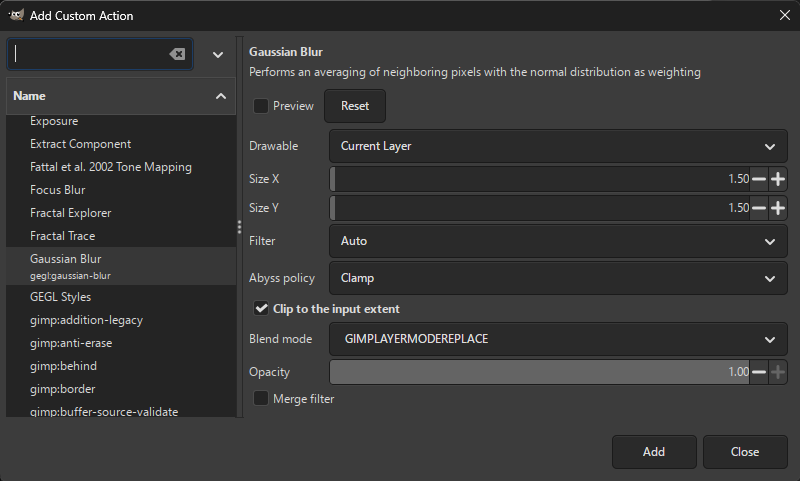
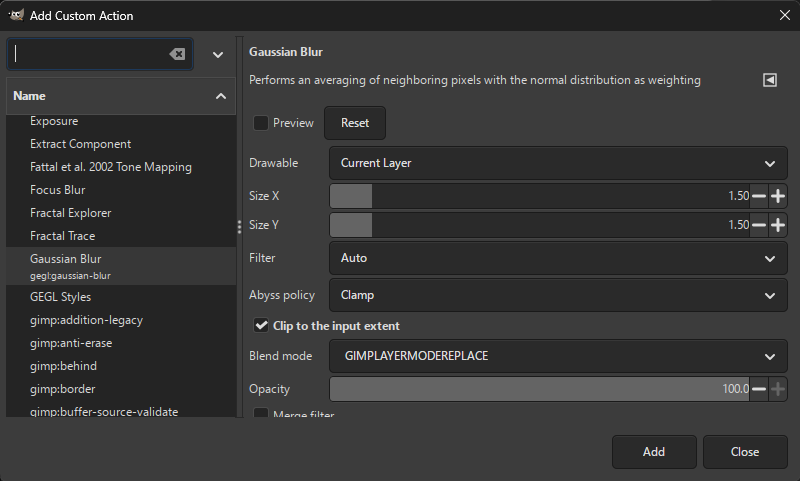
Release 1.2.10

diff --git a/_posts/2026-07-26-1.2.10-released.md b/_posts/2026-07-26-1.2.10-released.md
@@ -1,0 +1,32 @@
+---
+layout: posts
+title: "Batcher 1.2.10 Released"
+author: "Kamil Burda"
+category: news
+---
+
+<!-- end of summary -->
+
+This release allows loading and saving GIMP presets/configs for layer effects/plug-ins, introduces more built-in color-related actions for convenience and improves usability of numeric arguments.
+
+New features:
+* You can now load presets for plug-ins and layer effects (custom actions) saved in GIMP. Conversely, you can save presets within Batcher and reuse them in GIMP.
+* Added two new built-in actions for color correction: `Color Balance` and `Hue-Saturation` (#111). These are equivalent to their corresponding GIMP tools and allow loading and saving presets. These actions are only available for GIMP 3.2 or later. Please note that using a non-default blend mode and opacity values below 100 may not produce the same results as the corresponding tools in GIMP.
+* Added the following new built-in actions for automatic color correction: `Equalize`, `Stretch Contrast`, `Stretch Contrast HSV` and `Color Enhance`. These are equivalent to their corresponding GIMP tools (#141).
+* Added a new unit labeled `%*` representing a percentage taken from the specified object (image or layer) and property (width, height, ...). This was originally the behavior of the `%` unit. To reduce visual clutter, the object and property are now displayed in a popover when choosing `%*`. The `%` unit is now only displayed for particular arguments in built-in actions where applicable. For example, the percentage for the `Width` argument in the `Scale` action is taken from the width of the object to be scaled (selected by the `Apply to (image or layer):` argument).
+* Scale: Added options to scale only images/layers smaller/larger than the specified width and height, or custom width and height (#163).
+* Added a setting to control whether the dialog for quick variants of Export Images and Export Layers is displayed. Previously, once you unchecked `Show this dialog`, there was no way to restore the dialog unless you reset settings. This setting can be found under `Settings → Preferences...` (see below).
+* Added a setting to adjust the number of decimal places for numeric arguments. This allows you to increase numeric precision if needed. This setting can be found under `Settings → Preferences...` (see below).
+
+Changes to actions and conditions:
+* Renamed `Color` menu to `Colors` for consistency with GIMP.
+* Moved `White Balance` under `Colors → Auto`.
+* For consistency with GIMP, opacity arguments are now displayed in the range 0.0-100.0 and saved in the range 0.0-1.0.
+
+Changes to the user interface:
+* Moved `Close when Done`, `Continue on Error` and `Keep Input Images` under `Settings → Preferences...`. Changes to any of these settings are saved immediately.
+
+Bug fixes:
+* Fixed action/condition edit dialogs not being closed when removing them by pressing Delete or when resetting settings.
+
+[Download at GitHub](https://github.com/kamilburda/batcher/releases/tag/1.2.10)

diff --git a/_pages/Usage.md b/_pages/Usage.md
@@ -221,10 +221,6 @@ For example, for the JPEG format, which does not support transparency and may re
 
 ## Managing Settings
 
-You can turn auto-closing the main dialog on/off by checking/unchecking `Settings → Close when Done`.
-
-You can check `Settings → Continue on Error` to continue processing if you determine that error(s) occurring during processing are harmless.
-
 Once batch processing is done successfully, your settings (output folder, file extension, dialog size, actions, conditions, etc.) are automatically saved.
 You can save settings manually anytime by selecting `Settings → Save Settings` or pressing Ctrl + S anywhere in the dialog.
 To reset settings to their default values, select `Settings → Reset Settings`.
@@ -233,4 +229,34 @@ You may also save settings to a custom file by selecting `Settings → Save Sett
 This allows swapping between different plug-in configurations or sharing them.
 To load settings from a file, select `Settings → Load Settings from File...` and select the file.
 
-For Batch Convert, you can optionally turn off saving input images by unchecking `Settings → Keep Input Images`. When this setting is checked, `Reset Settings` will not remove the input images. When loading settings from a file and this setting is checked, the input images will be preserved and any input images stored in the file will be ignored. If you want to load the input images from the file, uncheck this setting.
+### Preferences
+
+Changes to settings under `Settings → Preferences...` are saved immediately.
+
+#### Close when done
+
+If checked, the main dialog is closed automatically after processing ended successfully.
+
+#### Continue on error
+
+If checked, processing is continued regardless of whether errors were encountered. This can be useful if you consider the errors harmless.
+
+#### Keep input images
+
+*Only available for Batch Convert*
+
+If checked:
+* The list of input images is saved when saving settings.
+* `Reset Settings` will not clear the list of input images.
+* When loading settings from a file, the input images will be preserved and any input images stored in the file will be ignored.
+
+If you want to override the list of input images from a settings file, uncheck this setting.
+
+#### Display dialog for quick export
+
+If checked, dialogs for quick variants of Export Images and Export Layers will be displayed.
+
+#### Use a minimum number of decimal places
+
+If checked, all decimal numeric arguments in actions and conditions will have a fixed minimum number of decimal places, which you can adjust via `Minimum decimal places`.
+This allows you to increase numeric precision if the default is too low.

diff --git a/_pages/Customization/Actions.md b/_pages/Customization/Actions.md
@@ -104,8 +104,8 @@ Options:
 * *Height*: The new height, specified using an absolute unit (pixels, inches, ...) or a percentage (of width of the current image, layer, ...).
 * *Interpolation*: Type of interpolation to use.
 * *Use local origin*: If checked and the object to scale is a layer, it will be scaled around its center. If not checked, the layer will be placed in the upper left corner of the image.
-* *Set image resolution in DPI*: Whether to set a new resolution for the current image.
-* *X* and *Y*: The new image resolution in DPI. Only applicable if *Set image resolution in DPI* is checked.
+* *Set image resolution in DPI*: Whether to set a new resolution for the current image. If checked, you can set the *X*- and *Y*-components of the new resolution in DPI.
+* *When to scale*: Allows scaling  only images/layers smaller/larger than the specified width and height, or custom width and height (independent of *Width* and *Height*).
 
 #### Resize Canvas
 
@@ -245,7 +245,7 @@ By default, the background color specified in GIMP is used to fill the alpha cha
 You can override this by setting a custom background color applied only within this action.
 
 
-### Color
+### Colors
 
 #### Brightness-Contrast
 
@@ -254,6 +254,18 @@ Adjusts brightness and contrast.
 For GIMP 3.2 and later, additional options are provided:
 * Filter responsible for adjusting brightness and contrast: `GEGL` (uses the `gegl:brightness-contrast` filter) and `GIMP` (uses the `gimp:brightness-contrast` filter).
 * Option to apply this action non-destructively, opacity and blend mode.
+
+#### Color Balance
+
+*Only available for GIMP 3.2 or later*
+
+Equivalent to `Colors → Color Balance` in GIMP.
+
+#### Hue-Saturation
+
+*Only available for GIMP 3.2 or later*
+
+Equivalent to `Colors → Hue-Saturation` in GIMP.
 
 #### Levels
 
@@ -271,9 +283,25 @@ For GIMP 3.2 and later, you may apply curves non-destructively and adjust opacit
 
 You can save a GIMP preset file by choosing `Export Current Settings to File` in the Curves tool.
 
+#### Equalize
+
+Equivalent to `Colors → Auto → Equalize` in GIMP.
+
 #### White Balance
 
 Equivalent to `Colors → Auto → White Balance` in GIMP.
+
+#### Stretch Contrast
+
+Equivalent to `Colors → Auto → Stretch Contrast` in GIMP.
+
+#### Stretch Contrast HSV
+
+Equivalent to `Colors → Auto → Stretch Contrast HSV` in GIMP.
+
+#### Color Enhance
+
+Equivalent to `Colors → Auto → Color Enhance` in GIMP.
 
 ### G'MIC Filter
 

diff --git a/_pages/Customization/Editing Actions and Conditions.md b/_pages/Customization/Editing Actions and Conditions.md
@@ -25,10 +25,22 @@ For layer/drawable/item arguments, you may select one of the following:
 
 For several built-in actions (such as `Scale` or `Rotate`), numeric arguments representing dimensions, coordinates, etc. can be specified in a variety of units, such as pixels, percentages (e.g. of width of the current image), inches and others. Percentages are converted to pixels. Inches and other units are converted to pixels based on the current image's resolution (in case of Edit Layers and Export Layers, the image of the processed layer).
 
+The `%` unit is only visible for some arguments for particular built-in actions and takes the most appropriate property (width, height) of an image/layer. For example, for the `Width` argument in the `Scale` action, the percentage is taken from the width of the image/layer to be scaled (selected by the `Apply to (image or layer):` argument). The `%*` unit allows you to explicitly select an image/layer and its property and is available everywhere.
+
+
+## Loading and Saving Presets
+
+For custom actions that are either plug-ins or filters (layer effects), you can load presets saved in GIMP.
+Conversely, you can save presets within Batcher and reuse them in GIMP.
+Some built-in actions may also allow loading and saving presets.
+
+Not all argument types are supported at the moment, particularly fonts, brushes, palettes, gradients or patterns.
+
 
 ## More Options
 
 Expanding `More options` allows you to adjust the options below.
+Some built-in actions contain less frequently used arguments under `More options`, such as tiling for `Insert Overlay (Watermark)`.
 
 ### Enable for previews
 

diff --git a/dev/index.md b/dev/index.md
@@ -6,9 +6,9 @@ custom_subtitle: "Batch image processing plug-in for GIMP"
 header:
   overlay_image: /assets/images/splash.jpg
   actions:
-    - label: "Download 1.2.9 (May 24, 2026)"
+    - label: "Download 1.2.10 (July 26, 2026)"
       image: <svg class="page__header-icon" xmlns="http://www.w3.org/2000/svg" viewBox="0 0 512 512"><!--!Font Awesome Free 6.7.2 by @fontawesome - https://fontawesome.com License - https://fontawesome.com/license/free Copyright 2025 Fonticons, Inc.--><path d="M288 32c0-17.7-14.3-32-32-32s-32 14.3-32 32l0 242.7-73.4-73.4c-12.5-12.5-32.8-12.5-45.3 0s-12.5 32.8 0 45.3l128 128c12.5 12.5 32.8 12.5 45.3 0l128-128c12.5-12.5 12.5-32.8 0-45.3s-32.8-12.5-45.3 0L288 274.7 288 32zM64 352c-35.3 0-64 28.7-64 64l0 32c0 35.3 28.7 64 64 64l384 0c35.3 0 64-28.7 64-64l0-32c0-35.3-28.7-64-64-64l-101.5 0-45.3 45.3c-25 25-65.5 25-90.5 0L165.5 352 64 352zm368 56a24 24 0 1 1 0 48 24 24 0 1 1 0-48z"/></svg>
-      url: "https://github.com/kamilburda/batcher/releases/download/1.2.9/batcher-1.2.9.zip"
+      url: "https://github.com/kamilburda/batcher/releases/download/1.2.10/batcher-1.2.10.zip"
       remote_only: true
     - label: "Get started"
       url: "/docs/installation/"

diff --git a/index.md b/index.md
@@ -6,9 +6,9 @@ custom_subtitle: "Batch image processing plug-in for GIMP"
 header:
   overlay_image: /assets/images/splash.jpg
   actions:
-    - label: "Download 1.2.9 (May 24, 2026)"
+    - label: "Download 1.2.10 (July 26, 2026)"
       image: <svg class="page__header-icon" xmlns="http://www.w3.org/2000/svg" viewBox="0 0 512 512"><!--!Font Awesome Free 6.7.2 by @fontawesome - https://fontawesome.com License - https://fontawesome.com/license/free Copyright 2025 Fonticons, Inc.--><path d="M288 32c0-17.7-14.3-32-32-32s-32 14.3-32 32l0 242.7-73.4-73.4c-12.5-12.5-32.8-12.5-45.3 0s-12.5 32.8 0 45.3l128 128c12.5 12.5 32.8 12.5 45.3 0l128-128c12.5-12.5 12.5-32.8 0-45.3s-32.8-12.5-45.3 0L288 274.7 288 32zM64 352c-35.3 0-64 28.7-64 64l0 32c0 35.3 28.7 64 64 64l384 0c35.3 0 64-28.7 64-64l0-32c0-35.3-28.7-64-64-64l-101.5 0-45.3 45.3c-25 25-65.5 25-90.5 0L165.5 352 64 352zm368 56a24 24 0 1 1 0 48 24 24 0 1 1 0-48z"/></svg>
-      url: "https://github.com/kamilburda/batcher/releases/download/1.2.9/batcher-1.2.9.zip"
+      url: "https://github.com/kamilburda/batcher/releases/download/1.2.10/batcher-1.2.10.zip"
       remote_only: true
     - label: "Get started"
       url: "/docs/installation/"

diff --git a/_pages/Known Issues.md b/_pages/Known Issues.md
@@ -12,3 +12,8 @@ For Batch Convert, import options for unrecognized file formats cannot be adjust
 
 Images created by custom actions (e.g. via `plug-in-decompose`) are currently not usable in Batcher.
 [This will be resolved in a future version](https://github.com/kamilburda/batcher/issues/56).
+
+When saving presets for a custom action, some arguments are currently not saved.
+These include fonts, brushes, palettes, gradients and patterns.
+
+For the built-in Color Balance and Hue-Saturation actions, non-default blend mode or opacity values below 100 will not produce the same results as the corresponding tools in GIMP due to a technical limitation.

diff --git a/_pages/Installation.md b/_pages/Installation.md
@@ -14,7 +14,7 @@ Batcher requires [GIMP 3.0.0](https://www.gimp.org/downloads/) or later.
 
 Batcher can currently be installed only manually by copying files from a ZIP archive.
 
-**[Download latest release](https://github.com/kamilburda/batcher/releases/tag/1.2.9) (1.2.9, May 24, 2026)**
+**[Download latest release](https://github.com/kamilburda/batcher/releases/tag/1.2.10) (1.2.10, July 26, 2026)**
 
 If you do not see the downloaded archive, check if your browser blocked the download.
 

diff --git a/dev/_pages/Installation.md b/dev/_pages/Installation.md
@@ -14,7 +14,7 @@ Batcher requires [GIMP 3.0.0](https://www.gimp.org/downloads/) or later.
 
 Batcher can currently be installed only manually by copying files from a ZIP archive.
 
-**[Download latest release](https://github.com/kamilburda/batcher/releases/tag/1.2.9) (1.2.9, May 24, 2026)**
+**[Download latest release](https://github.com/kamilburda/batcher/releases/tag/1.2.10) (1.2.10, July 26, 2026)**
 
 If you do not see the downloaded archive, check if your browser blocked the download.
 
